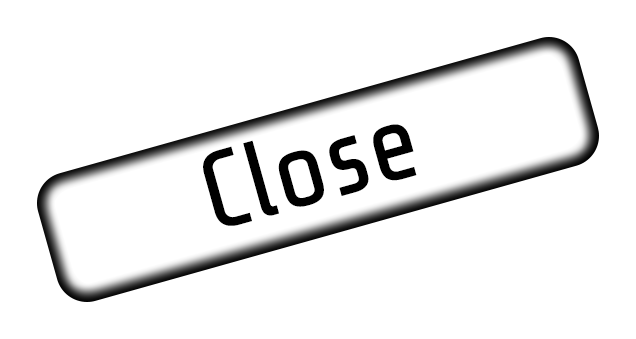
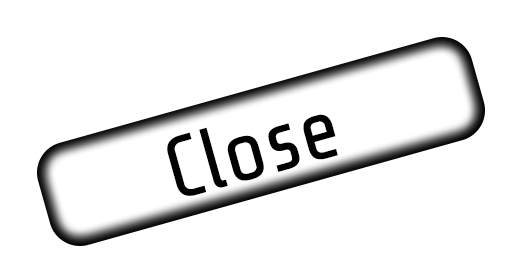
may 30 6:30

diff --git a/core/src/com/wilson/paino/MainMenuScreen.java b/core/src/com/wilson/paino/MainMenuScreen.java
@@ -18,6 +18,7 @@ import com.badlogic.gdx.scenes.scene2d.utils.ClickListener;
 import com.badlogic.gdx.scenes.scene2d.utils.Drawable;
 import com.badlogic.gdx.scenes.scene2d.utils.TextureRegionDrawable;
 import com.badlogic.gdx.utils.ScreenUtils;
+import com.badlogic.gdx.utils.viewport.FitViewport;
 import com.badlogic.gdx.utils.viewport.ScreenViewport;
 import com.badlogic.gdx.utils.viewport.Viewport;
 
@@ -39,7 +40,7 @@ public class MainMenuScreen extends Stage implements Screen {
 		camera = new OrthographicCamera();
 		camera.setToOrtho(false, 1920, 1030);
 		this.game = game;
-        stage=new Stage();
+        stage=new Stage(new ScreenViewport());
         Gdx.input.setInputProcessor(stage);
         batch=new SpriteBatch();
 
@@ -50,14 +51,13 @@ public class MainMenuScreen extends Stage implements Screen {
         Drawable startTexture=new TextureRegionDrawable(new Texture(Gdx.files.internal("ui//play.png")));
         startButton=new ImageButton(startTexture);
         startButton.setTransform(true);
-        startButton.setScale(0.7f);
+        //startButton.setScale(0.7f);
         Drawable closeTexture=new TextureRegionDrawable(new Texture(Gdx.files.internal("ui//close.png")));
         closeButton=new ImageButton(closeTexture);
         closeButton.setTransform(true);
-        closeButton.setScale(0.7f);
-        // table.add(startButton);
-        startButton.setBounds(940, 500, 636, 339);
-        closeButton.setBounds(53, 50, 636, 339);
+        //closeButton.setScale(0.7f);
+        startButton.setPosition(camera.position.x+250,camera.position.y+180);
+        closeButton.setPosition(camera.position.x-830,camera.position.y-400);
         Gdx.input.setInputProcessor(stage);
         stage.addActor(startButton);
         stage.addActor(closeButton);
@@ -94,7 +94,7 @@ public class MainMenuScreen extends Stage implements Screen {
         camera.update();
         batch.setProjectionMatrix(camera.combined);
         batch.begin();
-        batch.draw(bgTexture, 0, 0);
+        batch.draw(bgTexture, 0, -30);
         batch.end();
 	    stage.act(Gdx.graphics.getDeltaTime());
 	    stage.draw();
